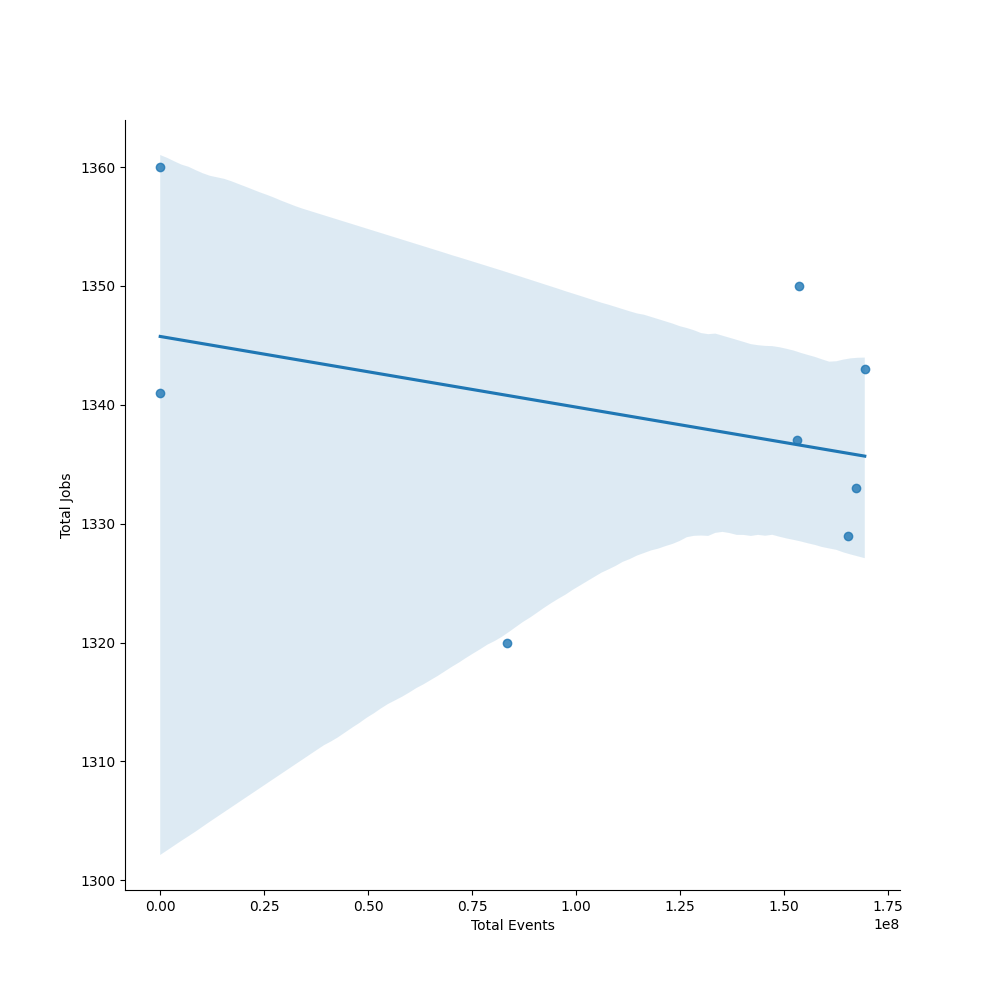
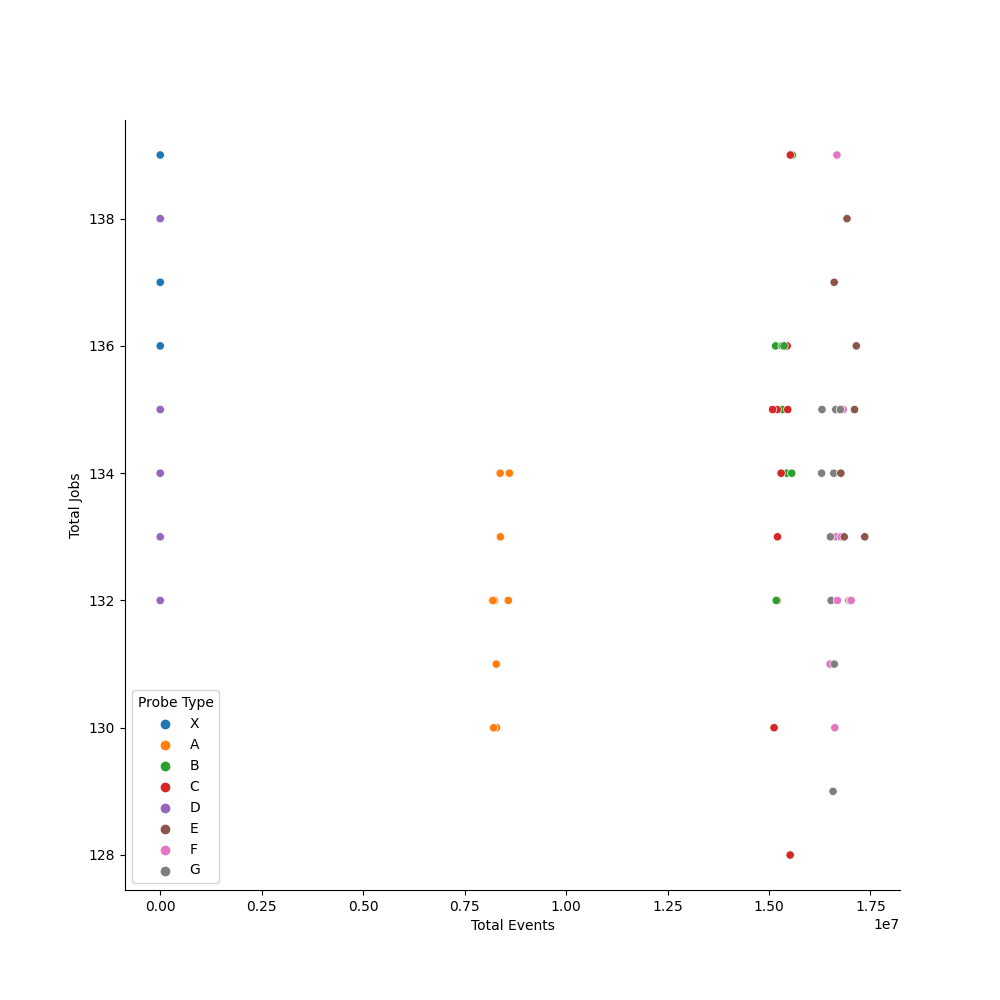
deaggregate experiment iterations

diff --git a/process.py b/process.py
@@ -20,6 +20,9 @@ def read_file(file):
 def get_data(lines):
     RUNS = 8  # number of runs in each experiment
     numArr = RUNS * 2
+    # process into data points
+    jobs = [lines[i] for i in range(0, len(lines), 2)]
+    events = [lines[i+1] for i in range(0, len(lines), 2)]
     # split into tracing and not tracing runs
     data = [[] for _ in range(numArr)]  # runs and log size
     for counter in range(0, len(lines)):
@@ -33,7 +36,7 @@ def get_data(lines):
     relJobs = [round(100 * (float(allJobs[i]) / totalJobs), 5) for i in range(0, len(allJobs))]
     relEvents = [round(100 * (float(allEvents[i]) / totalEvents), 5) for i in range(0, len(allEvents))]
     # return relative values
-    return relJobs, relEvents, allJobs, allEvents
+    return relJobs, relEvents, allJobs, allEvents, jobs, events
 
 
 def linReg(allEvents, allJobs, type):
@@ -55,10 +58,10 @@ def main(args):
     # read file
     lines = read_file("Logs/log_" + run + ".txt")
     # process data
-    relJobs, relEvents, allJobs, allEvents = get_data(lines)
+    relJobs, relEvents, allJobs, allEvents, jobs, events = get_data(lines)
     # get the regression
-    regA, errA = linReg(np.array(allEvents), np.array(allJobs), "events")
-    regB, errB = linReg(np.array([0, 1, 2, 1, 1, 3, 6, 10]), np.array(allJobs), "jobs")
+    regA, errA = linReg(np.array(events), np.array(jobs), "events")
+    regB, errB = linReg(np.array([0, 1, 2, 1, 1, 3, 6, 10] * 10), np.array(jobs), "probes")
     # write results to file
     with open("Results/result_" + run + ".txt", 'w') as f:
         f.write(f"iterations {args[2]} | time {args[3]} | threads {args[4]} | depth {args[5]} | governor {args[6]}\n")
@@ -76,7 +79,10 @@ def main(args):
         f.write("Probes to Jobs\n")
         f.write(f"{regB}\n")
         f.write(f"{errB}\n")
-
+        f.write("All jobs\n")
+        f.write(f"{jobs}\n")
+        f.write("All events\n")
+        f.write(f"{events}\n")
 
 
 if __name__ == "__main__":
@@ -87,7 +93,7 @@ if __name__ == "__main__":
         main(args)
     else:
         # runs = ["2", "3", "4", "5", "C1", "C2"]
-        runs = ["home_1_ps"]
+        runs = ["aws_1_X", "cloudlab_1_X", "cloudlab_2_X", "home_1_ps", "home_2_per", "home_3_ps"]
         for run in runs:
             args = ["", run, 10, "20", 500, 1500, "powersave"]
             # args = []

diff --git a/visualizer.py b/visualizer.py
@@ -10,25 +10,25 @@ def linePlot(run_num):
     with open(f"Results/result_{run_num}.txt") as file:
         #  get data
         lines = [line.rstrip() for line in file]
-        totalJobs = eval(lines[6])
-        totalEvents = eval(lines[8])
-        numProbes = [0, 1, 2, 1, 1, 3, 6, 10]
+        totalJobs = eval(lines[16])
+        totalEvents = eval(lines[18])
+        numProbes = [0, 1, 2, 1, 1, 3, 6, 10] * 10
         df = pd.DataFrame({
-            'Probe Type': ["X", "A", "B", "C", "D", "E", "F", "G"],
+            'Probe Type': ["X", "A", "B", "C", "D", "E", "F", "G"] * 10,  # 10 runs
             'Probes': numProbes,
             'Total Events': totalEvents,
             'Total Jobs': totalJobs,
         })
         # plot a scatter plot with regression
         fig, ax1 = plt.subplots(figsize=(10, 10))
-        sns.regplot(x='Total Events', y='Total Jobs', data=df, ax=ax1)
+        sns.scatterplot(x='Total Events', y='Total Jobs', data=df, ax=ax1, hue='Probe Type')
         sns.despine(fig)
         fig.savefig(f"Figures/{run_num}_events.png")
         # close the plot
         plt.close()
         # plot probes to jobs
         fig, ax1 = plt.subplots(figsize=(10, 10))
-        sns.regplot(x='Probes', y='Total Jobs', data=df, ax=ax1)
+        sns.scatterplot(x='Probes', y='Total Jobs', data=df, ax=ax1, hue='Probe Type')
         sns.despine(fig)
         fig.savefig(f"Figures/{run_num}_probes.png")
 
@@ -39,6 +39,6 @@ if __name__ == "__main__":
         run_num = args[1]
         linePlot(run_num)
     else:
-        run_nums = []
-        for run_num in run_nums:
+        runs = ["aws_1_X", "cloudlab_1_X", "cloudlab_2_X", "home_1_ps", "home_2_per", "home_3_ps"]
+        for run_num in runs:
             linePlot(run_num)
